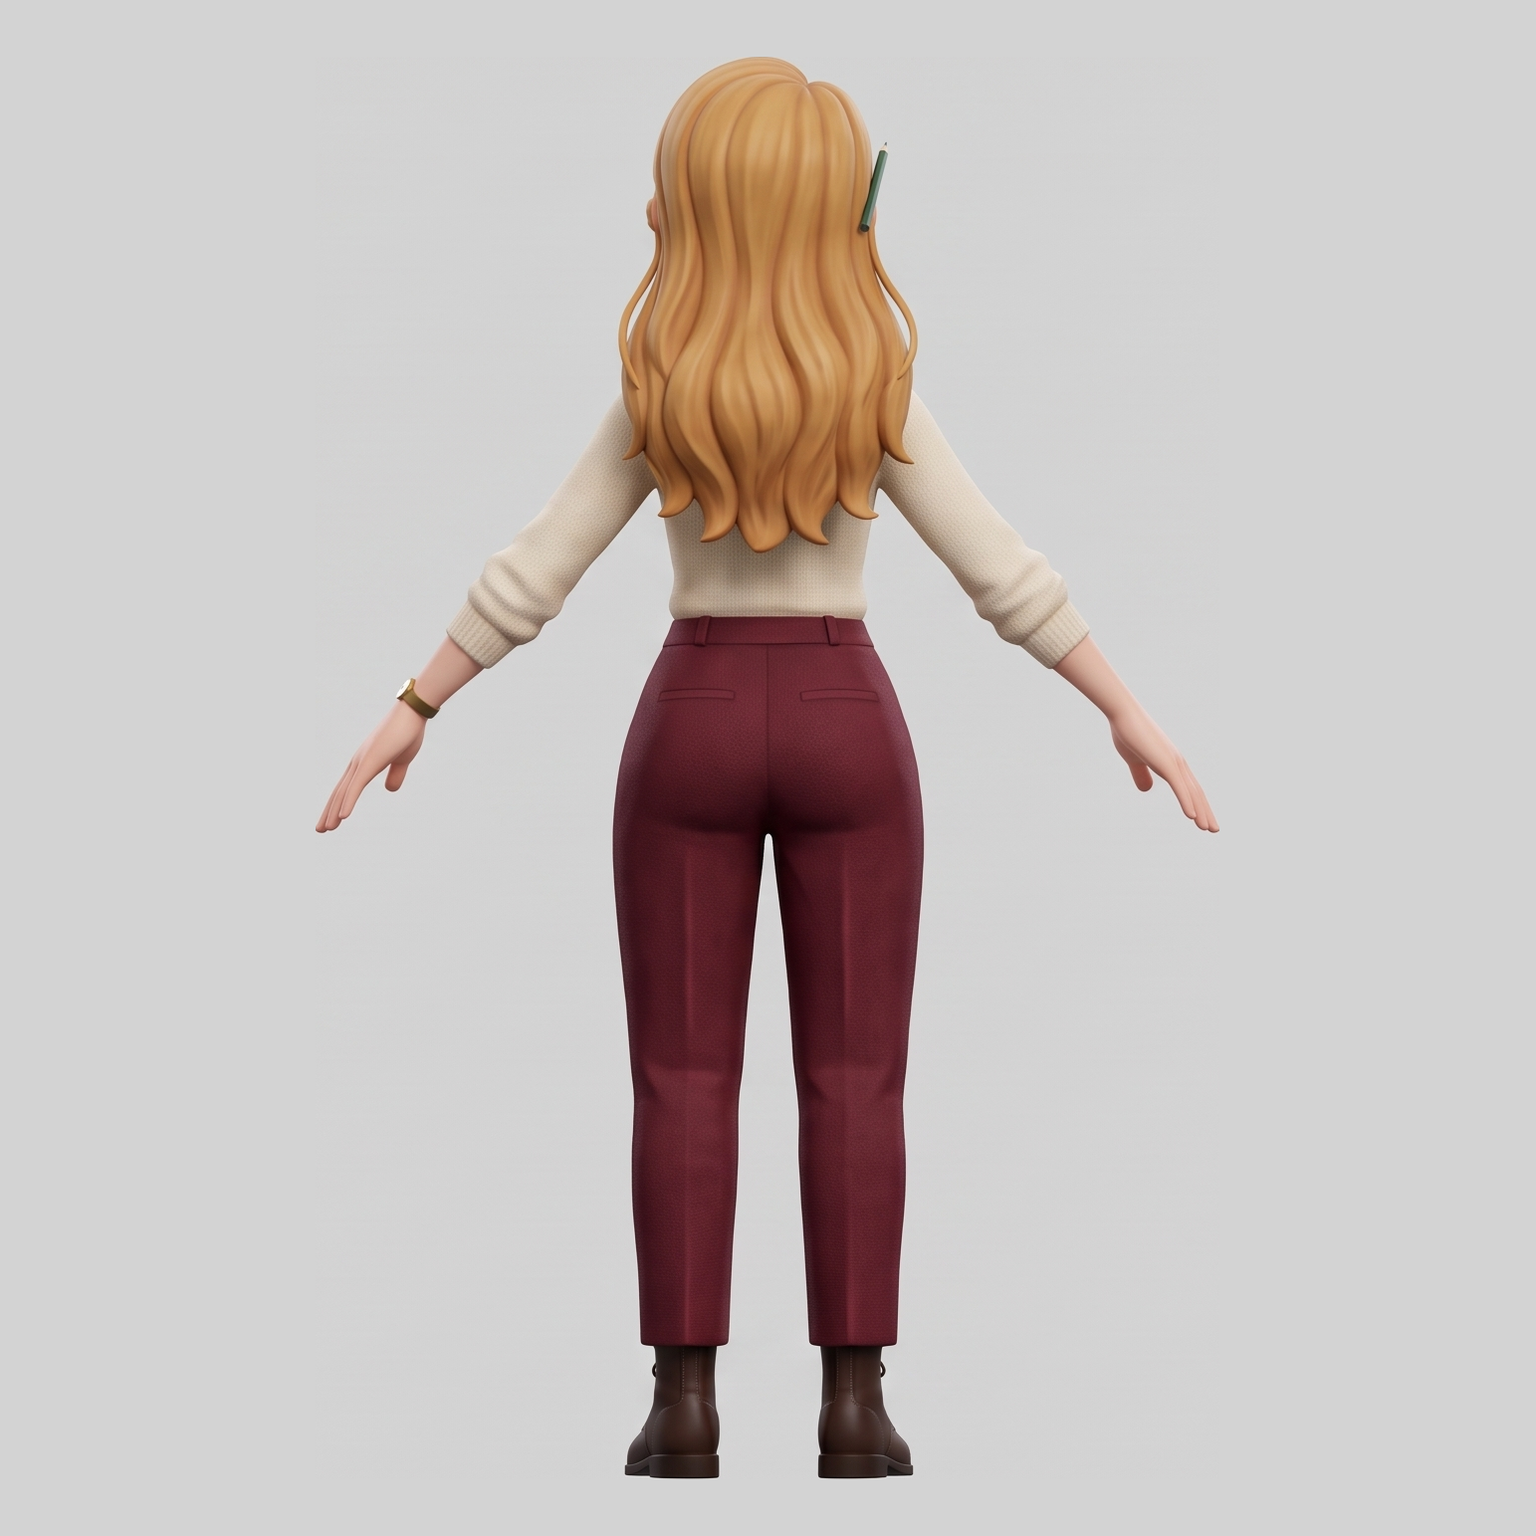
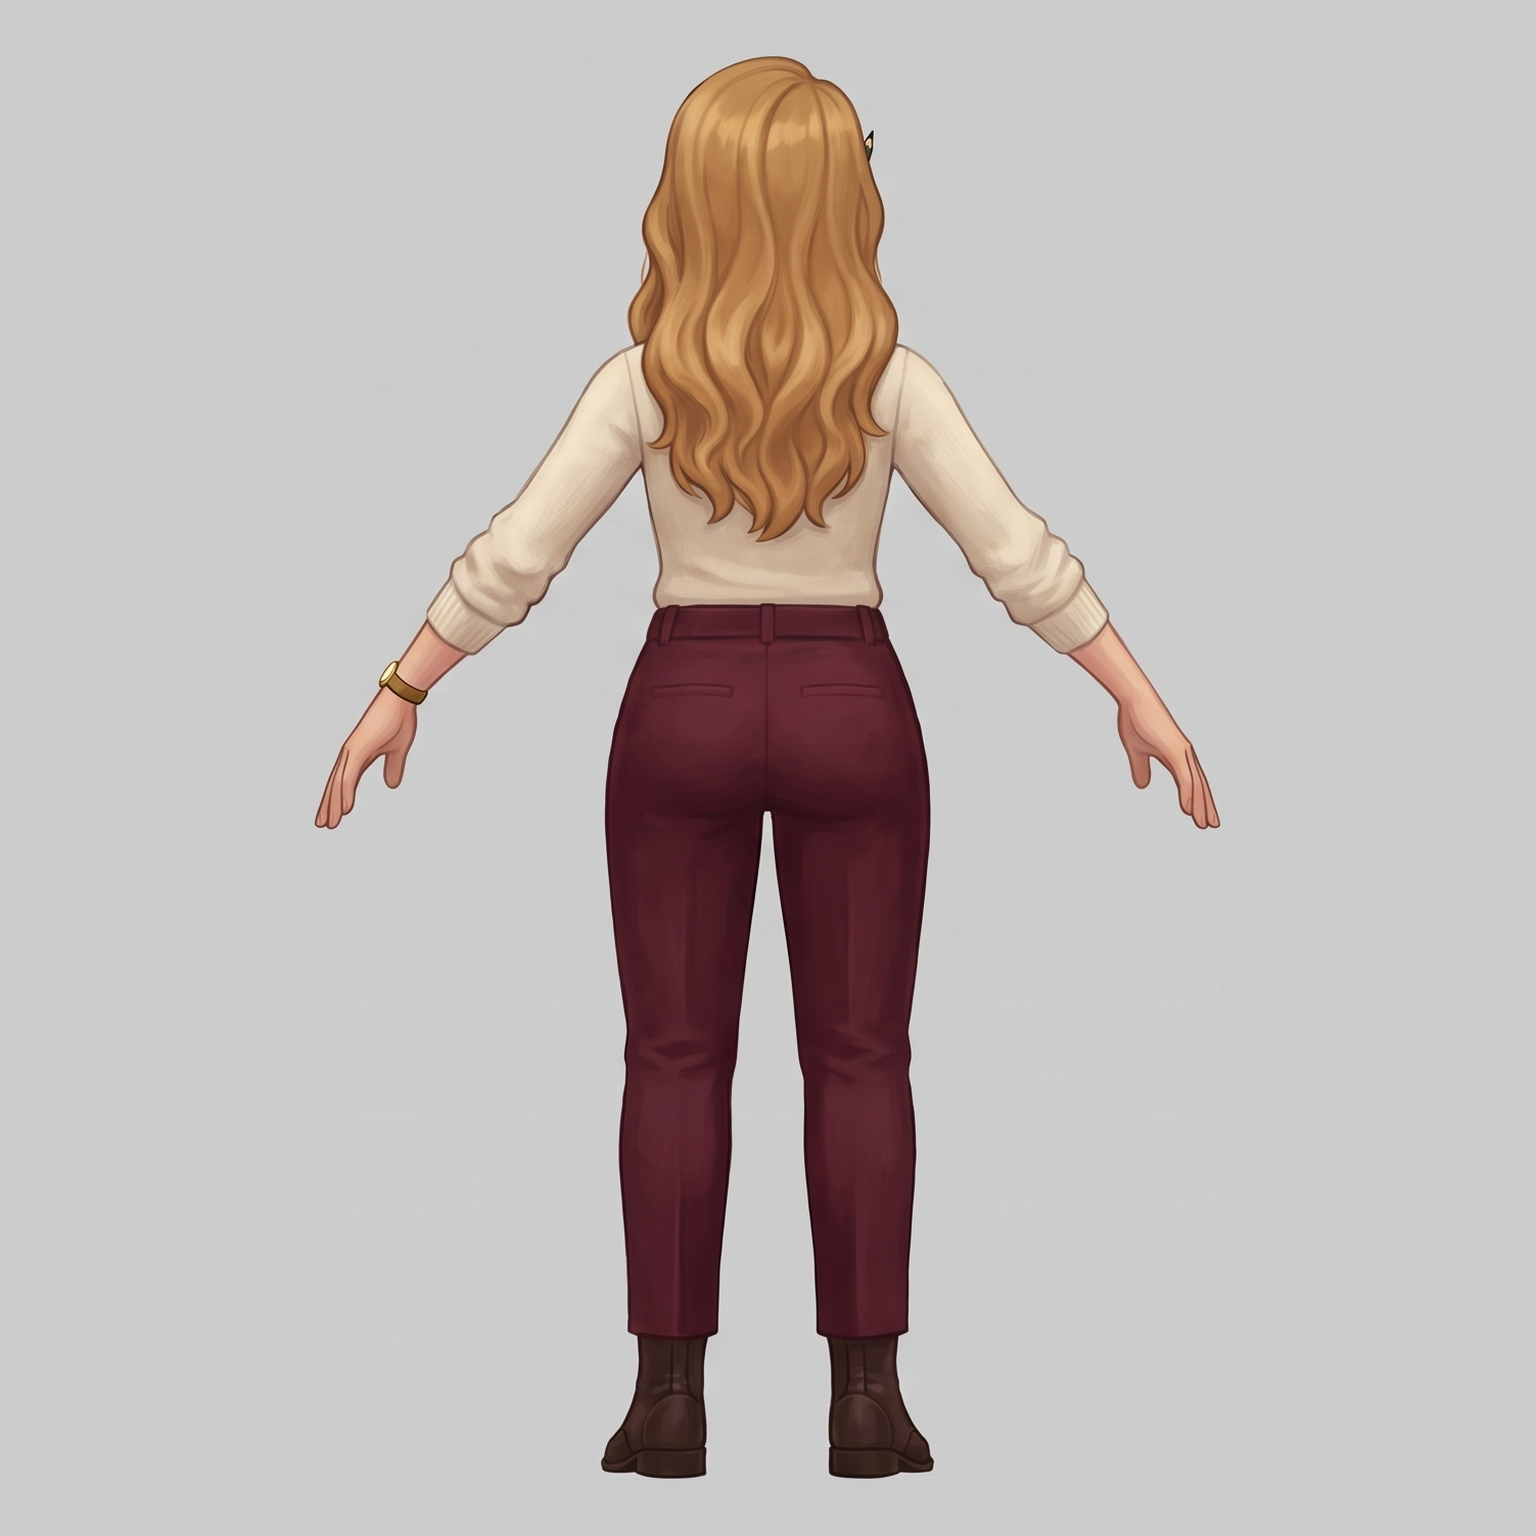
People: the model-sheet picks for the whole first cast (Lena retaken for a face that's hers, Walt retaken in the cast's style, Elias in the gown matched to the dream Elias), cropped for Tripo

Changed region(s): [[0.1875, 0.0312, 0.8125, 0.625], [0.375, 0.5312, 0.625, 0.9688], [0.5312, 0.5938, 0.5625, 0.625]]

diff --git a/docs/redesign/people.md b/docs/redesign/people.md
@@ -13,7 +13,7 @@ colour per character).
 | Access: Mixamo | **BLOCKED** the same way: not signed in on port 9333. |
 | Access: CC0 animation library (Quaternius Universal Animation Library) | **BLOCKED**: its free download goes through itch.io's download flow, which the permission system refused to script. A person can download `Universal Animation Library[Standard].zip` (free, CC0, 15 MB) from quaternius.itch.io/universal-animation-library. |
 | Access: Gemini (Flow, Nano Banana Pro) | Works (0 credits). |
-| Model sheets for Tripo | Made: Lena, Theo, Elias (dream), Walt, Elias in the hospital gown. Picks below. |
+| Model sheets for Tripo | Picked and cropped for all five: Lena, Theo, Elias (dream), Elias in the hospital gown, Walt (below). |
 | Component, builder, capture | Written and compile-checked (dotnet); not yet run in Unity. |
 | Meshes, rigs, animations, prefabs | Waiting on the sign-ins above. |
 
@@ -103,32 +103,28 @@ git until main has run it). Models: `Models/<Name>/<Name>.fbx` with Tripo's text
 
 | Prefab | Height | Defining colour | Sheet pick (art/incoming) | Notes |
 |---|---|---|---|---|
-| Lena | 1.88 m (6'2") | deep wine-red trousers on cream | `vh3d-lena-take1` | the pencil on her right ear; the watch face-in; nothing on her chest; notebook a separate prop |
+| Lena | 1.88 m (6'2") | deep wine-red trousers on cream | `vh3d-lena2-take1` | the pencil on her right ear; the watch face-in; nothing on her chest; notebook a separate prop |
 | Theo | 1.38 m | mustard hoodie | `vh3d-theo-take1` | ten; patched right knee, red sneakers |
 | Elias | 1.83 m | cornflower-blue apron on white | `vh3d-elias-dream-take1` | the dream Elias at the barbecue; tongs a separate prop |
-| EliasBed | 1.83 m | pale hospital blue | (see "Sheets") | the waking Elias, hospital gown, head bandage, eyes closed; posed lying |
-| Walt | 1.86 m | tan apron, red rag, brown tweed cap | retake pending (see "Sheets") | tall, thin; the rag tucked in his apron so the hands rig cleanly; a hand-held rag prop for `wipe-hands` |
+| EliasBed | 1.83 m | pale hospital blue | `vh3d-elias-bed2-take2` | the waking Elias, hospital gown, head bandage, eyes closed; posed lying |
+| Walt | 1.86 m | tan apron, red rag, brown tweed cap | `vh3d-walt2-take2` | tall, thin; the rag tucked in his apron so the hands rig cleanly; a hand-held rag prop for `wipe-hands` |
 | Nadia | 1.65 m | olive jacket, navy scrubs | (existing) | `Models/Nadia/Nadia.fbx` stays as the World agent's first-person body (Generic import). The builder does **not** touch it; a third-person Nadia gets a copy. |
 
 Not started (after the first milestone): Mags, Rafael, 6-10 Saturday neighbours, 2-3 ward visitors and staff.
 
 ## Sheets (2026-10-12)
 
-Take 1 of Lena, Theo and Elias (dream) is the pick: closer to a stylized 3D game render (clean forms, hand-painted cloth)
-than take 2, which drifts towards painterly realism (the creator turned that down for portraits). Their views are cropped
-for Tripo in `tools/tripo/sheets/<name>/{front,side,back}.png`. Weak spots, to check on the meshes: Lena's face is a
-little generic (her freckles and wide mouth are faint), Elias's dream face is cuter than the waking design.
+All in `FableAnimationTests/art/incoming/`; each pick is cropped for Tripo into `tools/tripo/sheets/<name>/{front,side,back}.png`.
+Prompts: `tools/tripo/sheets/*.txt`; batches `run-sheets.sh` (first takes) and `run-retakes.sh` (retakes, with the dream
+Elias sheet attached as a style reference so the cast reads as one game).
 
-**Walt: retake needed.** Both takes (`vh3d-walt-take1/2`) came out realistic and gritty, with a stern face (take 2 angry),
-out of style with the rest of the cast and not the kind old man of his design. The retake prompt attaches Elias's sheet
-as a style reference and asks for a kind face; not run yet:
-
-    cd FableAnimationTests
-    node art-tools/flow.mjs --image --out vh3d-walt2 --prompt-file ../VibeJamKit/tools/tripo/sheets/walt2.prompt.txt \
-      --attach "art/incoming/sheet-walt-bb-take1.jpg|art/incoming/vh3d-elias-dream-take1.jpg" --takes 2
-
-**Elias in the gown:** `vh3d-elias-bed-take1/2` were generating when this pass stopped; not reviewed yet (if they drift
-out of style, retake with the same style-reference trick).
+| Who | Pick | Why, and what's still weak |
+|---|---|---|
+| Lena | `vh3d-lena2-take1` | The retake. The first pick (`vh3d-lena-take1`) had a generic cartoon-heroine face (big round grey-blue eyes, small mouth). This one is hers: green-grey almond eyes with calm, slightly heavy lids, generous freckles, full cheeks, a closed half-smile; pencil on her right ear in all three views. Weak: the mouth is still not as wide as the design; her rendering is a shade more painterly than Theo and Elias. `vh3d-lena2-take2` was rejected: its side view turns the head to camera (bad for multi-view) and the pencil swaps ears between views. |
+| Theo | `vh3d-theo-take1` | Saturated mustard hoodie, patched right knee, red sneakers; clean stylized render. |
+| Elias (dream) | `vh3d-elias-dream-take1` | Cornflower apron on white, rolled sleeves, steel watch. Weak: his face is cuter than the waking design. |
+| Elias (gown) | `vh3d-elias-bed2-take2` | The retake with the dream sheet as reference: unmistakably the same man as the dream Elias (face, hair, beard), same render style; bandage, eyes closed, gown ties at the back, cannula and wristband. Weak: he looks too healthy (not thin or wasted, no bruise); the illness has to come from a paler skin tint in the material and the bed's lighting. The gaunter first takes (`vh3d-elias-bed-take1/2`) are painterly-realistic and don't read as the same person. |
+| Walt | `vh3d-walt2-take2` | The retake. The first takes were gritty and stern. This one has the approved design's round, kind face (soft brows, warm eyes, white walrus moustache), the brown tweed cap, the stained tan apron with the red rag tucked at the hip, and matches the cast's style. Weak: he reads shorter and sturdier than "tall and thin" (the builder scales him to 1.86 m, so the head will be a bit large); the alternate `vh3d-walt2-take1` has the tall thin build but a worn, slightly sad face. |
 
 ## Building the prefabs (main, in Unity)
 
